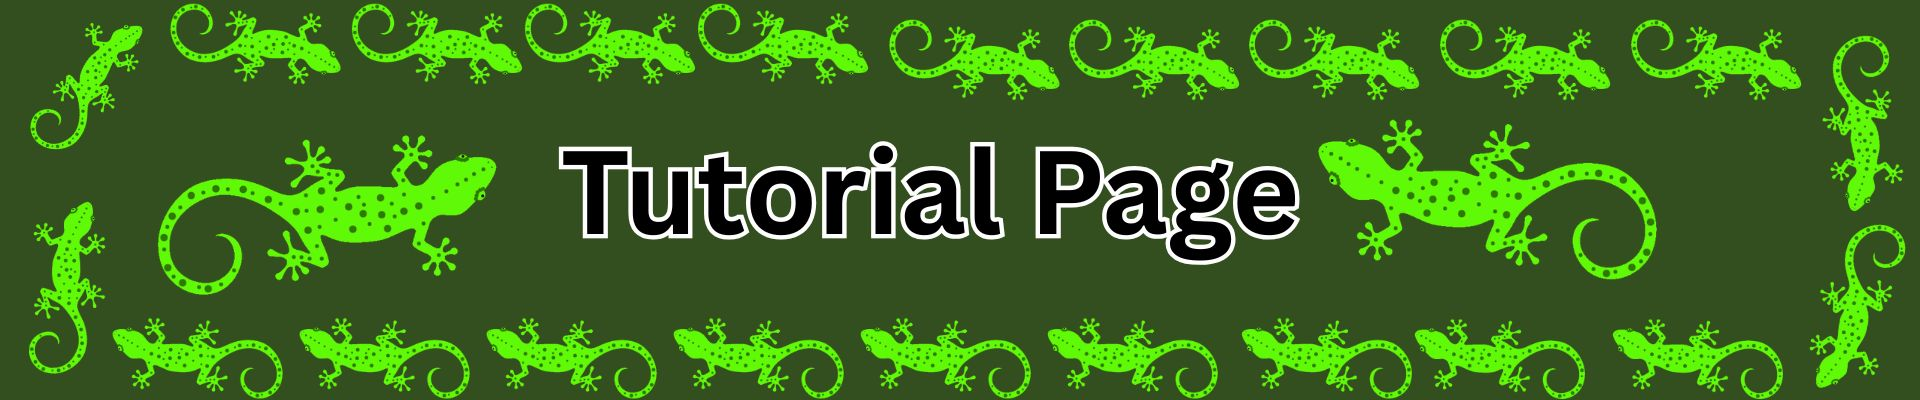
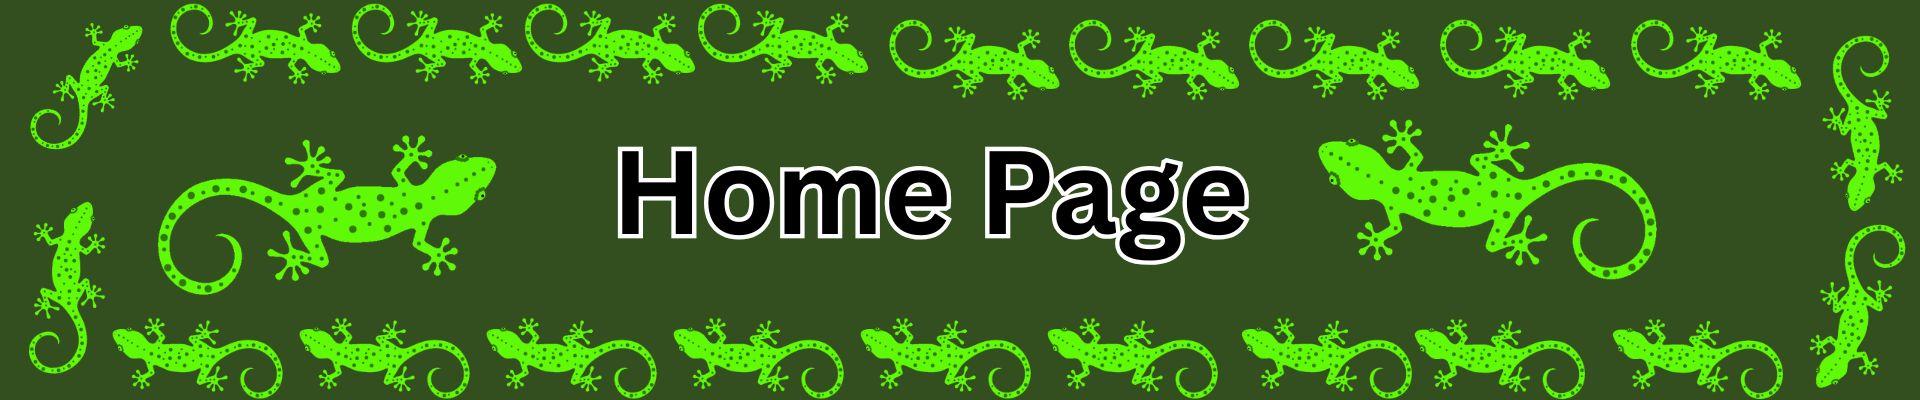
update

Changed region(s): [[0.2812, 0.36, 0.6875, 0.66]]

diff --git a/index.html b/index.html
@@ -2,6 +2,8 @@
 
 <html>
 
+	
+
 <head>
 <!--
 
@@ -27,32 +29,38 @@
 	
 	
 
-		<td> <h1>Tutorials</h1>
+		<td width="20%"><h1>Helpful Resources</h1>
 	 
 	   <ul>
-	   <li><a href="tutorial1/ct_start.html">Tutorial 1</a></li>
-	   <li><a href="tutorial2/tss_home.html">Tutorial 2</a></li>
-	   <li><a href="tutorial3"> Tutorial 3</a></li>
-	   <li><a href="tutorial4"> Tutorial 4</a></li>
-	   <li><a href="tutorial5"> Tutorial 5</a></li>  
+	   <li><a href="https://www.canva.com/" target="_blank">Canva</a></li>
+	   <li><a href="https://arc.losrios.edu" target="_blank">ARC Homepage</a></li>
+	   <li><a href="https://github.com/dashboard" target="_blank">GitHub</a></li>
+	 
 	   </ul> 
 	   </td>
-	</tr>
+	 
+
+	<td width="40%"><a href="book/book.html"><img alt="Book Image" src="book.png" width="40%" height="40%"></a>
+	 
+		
+	<img alt="Project Image" src="project.png" width="40%" height="40%"> </td>
+	
+	</tr>        
 	
 <tr> 
+	   <td> <td> 
+		
+		
+         <img alt="Final Image" src="final.png" width="40%" height="40%"
+		
 	   
-		<td width="40%"><img alt="Book Image" src="book.png" width="40%" height="40%"
-		
-         width="40%"><img alt="Final Image" src="final.png" width="40%" height="40%"
-		
-	     width="40%"><img alt="Project Image" src="project.png" width="40%" height="40%"
-		 width="40%"><img alt="Portfolio Image" src="portfolio.png" width="40%" height="40%" </td>
+		 width="40%"><img alt="Portfolio Image" src="portfolio.png" width="40%" height="40%"> </td> </td> 
 		</tr>
 	
 	
 		<tr>
-		<td colspan="3"style="background-color: limegreen">footer</td>
-	    
+		<td colspan="3"style="background-color: limegreen" height="200px">
+	    <h3 align=center>Brianna T.</h3> </td>
 </tr>
 
 </table>

diff --git a/book/book - Copy.html b/book/book - Copy.html
@@ -15,9 +15,9 @@
 	 <title>Book Assignments for CISW 300</title>
 	 
 	 <head>
-	 <body style="background-color: Goldenrod">
+	 <body style="background-color: goldenrod">
 	 
-<img src="tutbanner.png" alt="Banner for CISW 300" align="center" width="100%">
+<img src="tutbanner.png" alt="Banner for CISW 300" align="center">
 	 
 	 <h1>Tutorials</h1>
 	 
